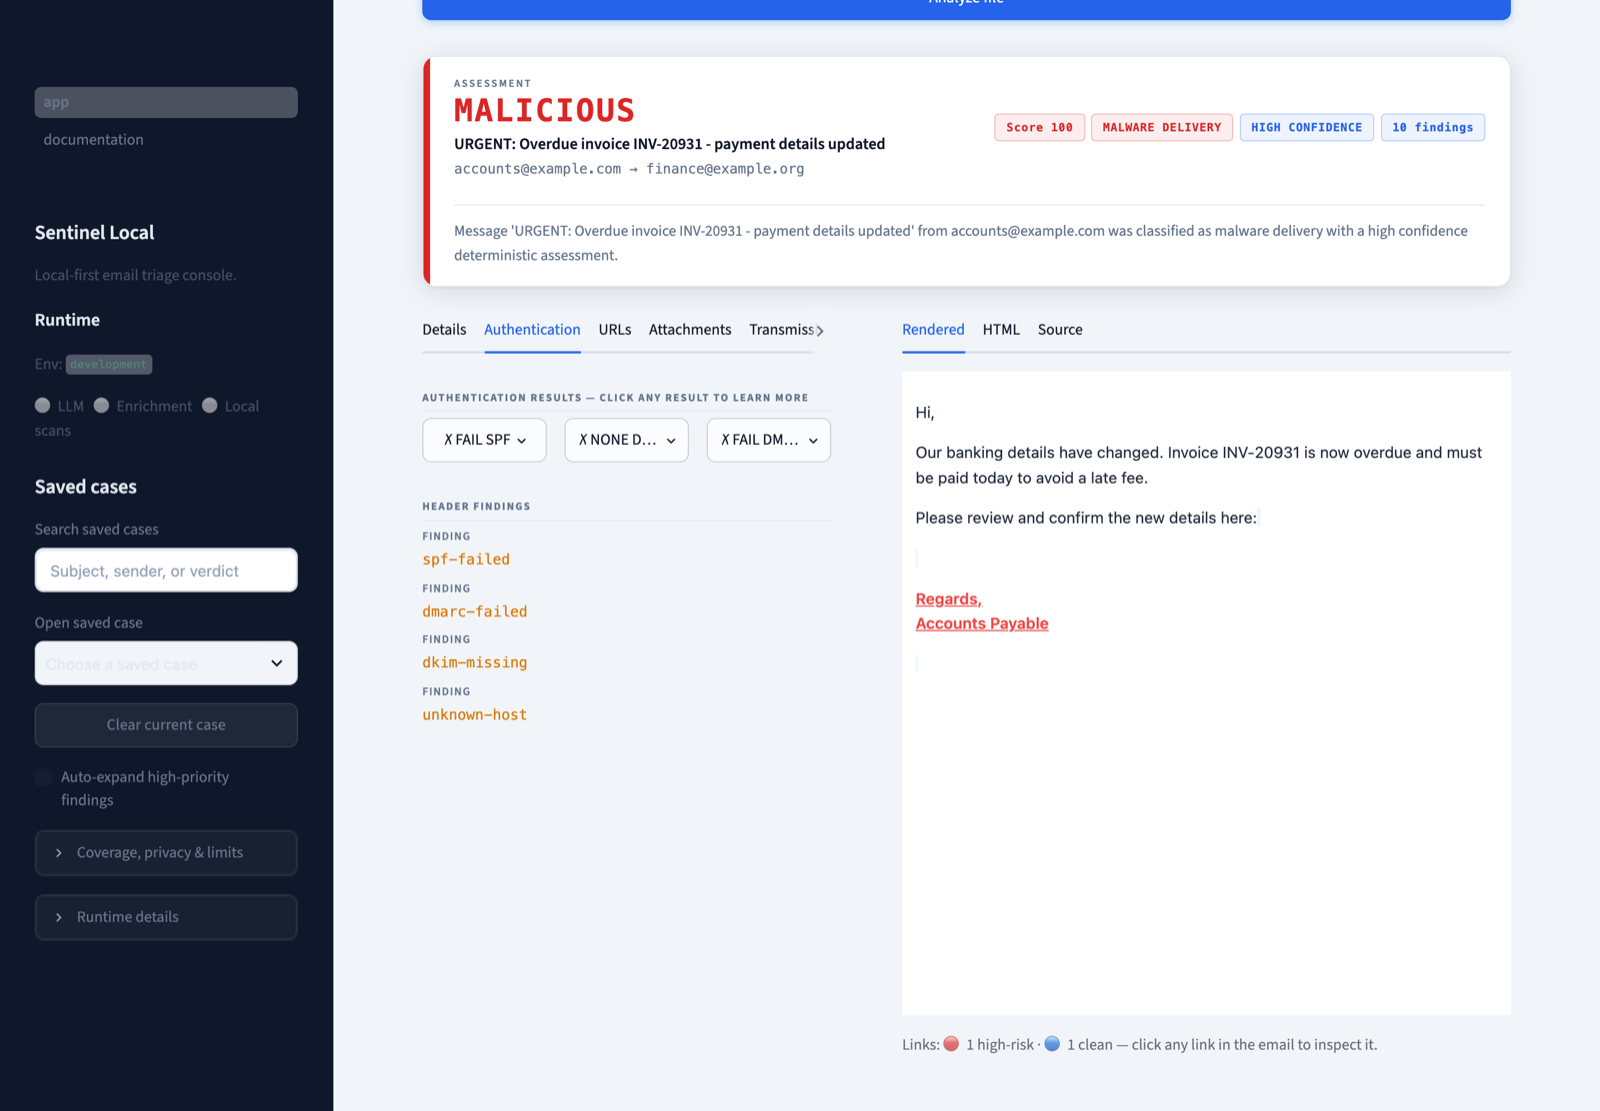
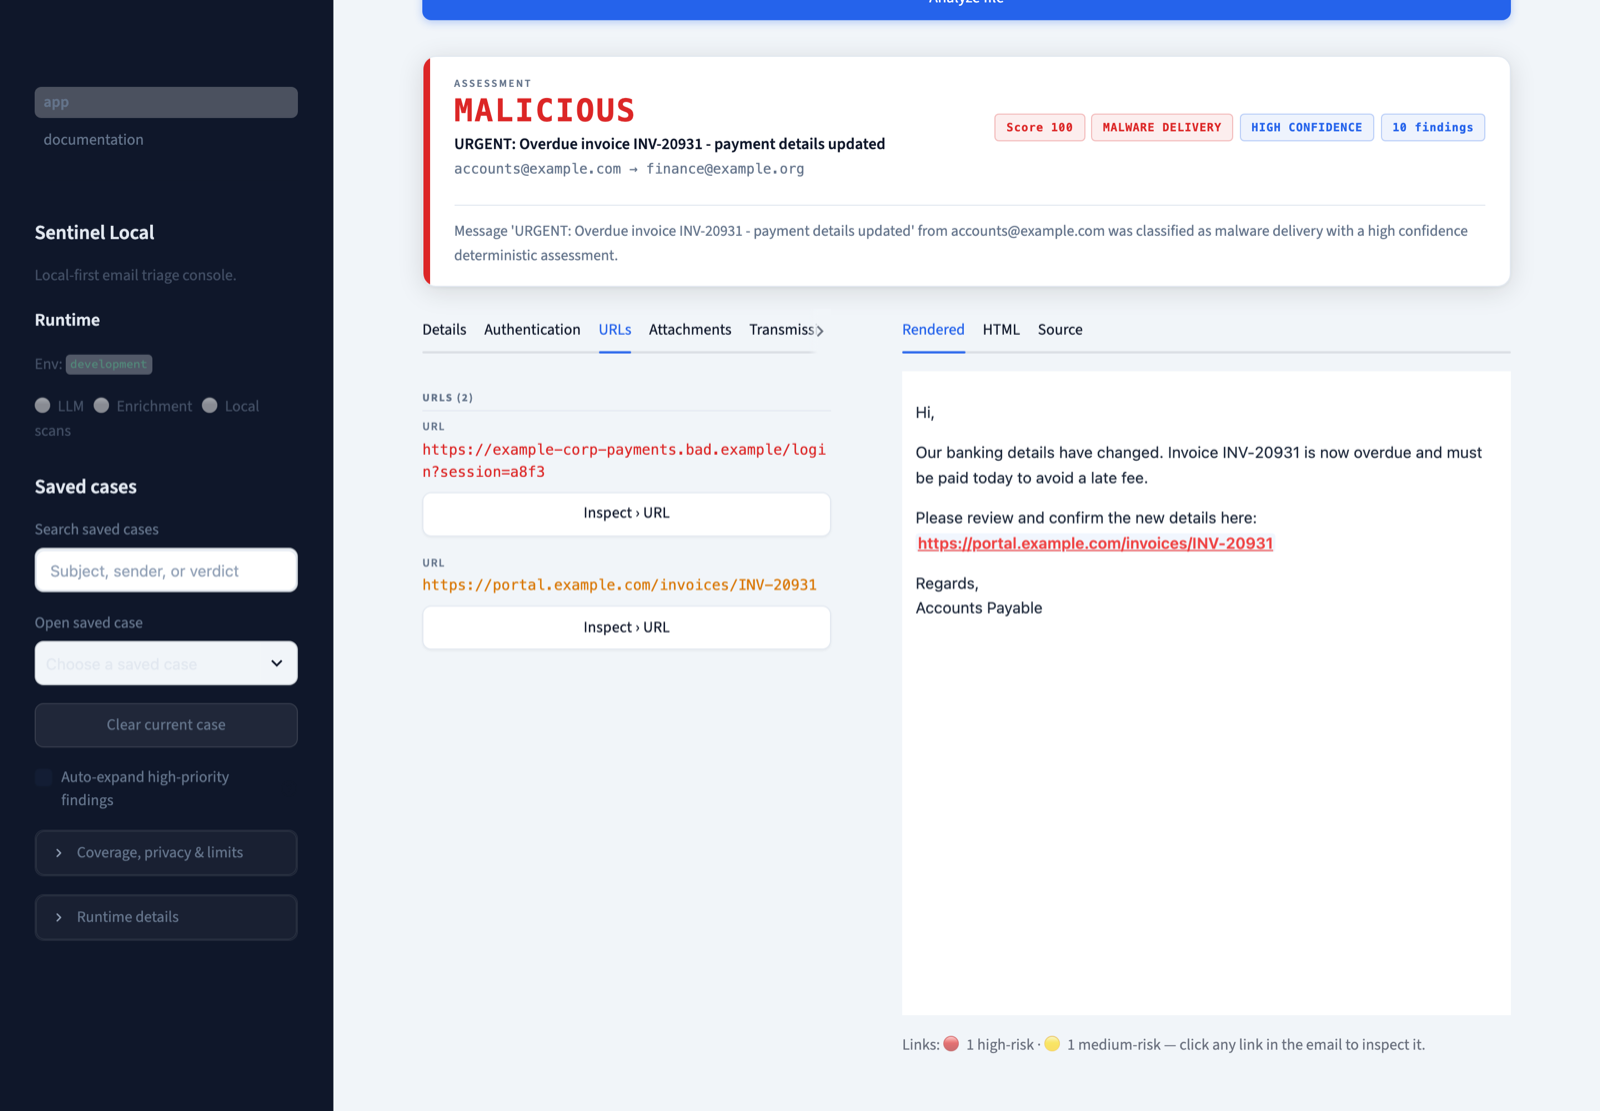
Flag decoy link text and fix links swallowing text in the rendered email
- A URL that only appears as the visible text of a link going to another
  domain now gets a 'decoy-display-text' finding (medium risk) instead of
  being shown as a clean link.
- The rendered-email link rewrite dropped the closing '>' of each <a> tag,
  so link text vanished and the following text rendered as part of the link.
- README screenshot updated to show both.

diff --git a/src/sentinel_local/ui/app.py b/src/sentinel_local/ui/app.py
@@ -58,7 +58,7 @@ def _link_risk_level(findings: list[str]) -> str:
         return "low"
     if {"display-text-mismatch", "shortened-url", "tracking-wrapper"} & set(findings):
         return "high"
-    if {"redirect-resolved", "screenshot-available"} & set(findings):
+    if {"redirect-resolved", "screenshot-available", "decoy-display-text"} & set(findings):
         return "medium"
     return "low"
 
@@ -846,7 +846,7 @@ def _sanitize_email_html(html_body: str, url_findings: dict) -> str:
             return m.group(0)
         url = href_m.group(1)
         if url.startswith(("javascript:", "data:", "#")):
-            return f"<a href='#' data-url='{escape(url)}'"
+            return f"<a href='#' data-url='{escape(url)}'>"
         info = url_findings.get(url, {})
         findings = info.get("findings", [])
         risk = (
@@ -861,7 +861,7 @@ def _sanitize_email_html(html_body: str, url_findings: dict) -> str:
             f"data-url='{escape(url)}' "
             f"style='color:{border_color};font-weight:600;text-decoration:underline;"
             f"background:rgba(59,130,246,.07);border-radius:3px;padding:0 2px;cursor:pointer' "
-            f"onclick=\"showDetail('{safe_url}');return false;\""
+            f"onclick=\"showDetail('{safe_url}');return false;\">"
         )
 
     html = re.sub(r"<a(\s[^>]*)?>", _rewrite_anchor, html, flags=re.IGNORECASE)
@@ -1336,6 +1336,17 @@ _URL_FINDING_DETAILS: dict[str, dict] = {
             "- They can be re-targeted — the same short link can point to different destinations over time\n\n"
             "**Recommended action:** enable redirect resolution and re-run to see the final destination "
             "before clicking."
+        ),
+    },
+    "decoy-display-text": {
+        "label": "🟠 Decoy link text",
+        "risk": "medium",
+        "title": "This URL Is Only Link Text, Not a Destination",
+        "body": (
+            "This URL appears in the email as the **visible text** of a link, but the link actually "
+            "goes somewhere else. It is what the reader is shown, not where they are sent, so it "
+            "should not be treated as a clean or trusted link.\n\n"
+            "Look at the matching link flagged with **Display text mismatch** for the real destination."
         ),
     },
     "display-text-mismatch": {

diff --git a/src/sentinel_local/url_analysis/service.py b/src/sentinel_local/url_analysis/service.py
@@ -31,7 +31,14 @@ def analyze_urls(
     client: httpx.Client | None = None,
 ) -> UrlAnalysisResult:
     """Analyze URLs in message content and optionally resolve redirect chains."""
-    html_anchor_map = {anchor["href"]: anchor.get("text") or None for anchor in extract_anchors(parsed_email.html_body)}
+    anchors = extract_anchors(parsed_email.html_body)
+    html_anchor_map = {anchor["href"]: anchor.get("text") or None for anchor in anchors}
+    # Visible text of links whose real destination is a different domain.
+    decoy_texts = [
+        (anchor.get("text") or "").lower()
+        for anchor in anchors
+        if _has_display_mismatch(anchor.get("text") or None, anchor["href"])
+    ]
     html_artifacts = [
         HtmlArtifact(
             artifact_type=item["artifact_type"],  # type: ignore[arg-type]
@@ -60,6 +67,8 @@ def analyze_urls(
             findings.append("shortened-url")
         if _has_display_mismatch(display_text, indicator.normalized_value):
             findings.append("display-text-mismatch")
+        if indicator.normalized_value not in html_anchor_map and _is_decoy_text(indicator.normalized_value, decoy_texts):
+            findings.append("decoy-display-text")
         if _JWT_RE.search(indicator.normalized_value):
             findings.append("jwt-in-url")
 
@@ -116,6 +125,12 @@ def _resolve_redirects_parallel(
                     artifact.findings.append("redirect-resolved")
             except Exception:
                 pass
+
+
+def _is_decoy_text(url: str, decoy_texts: list[str]) -> bool:
+    """True when a URL only appears as the visible text of a link that goes elsewhere."""
+    needle = url.lower().rstrip("/")
+    return any(needle and needle in text for text in decoy_texts)
 
 
 def _has_display_mismatch(display_text: str | None, url: str) -> bool:

diff --git a/tests/test_url_analysis.py b/tests/test_url_analysis.py
@@ -134,3 +134,39 @@ def test_url_analysis_skips_private_targets_for_redirects_and_screenshots() -> N
     assert artifact.final_url is None
     assert artifact.redirect_chain == []
     assert artifact.screenshot_url is None
+
+
+def test_url_shown_only_as_link_text_is_flagged_as_a_decoy() -> None:
+    # The visible text is a trusted-looking URL; the real href goes elsewhere.
+    parsed = ParsedEmail(
+        source_type="pasted",
+        sender=EmailAddress(email="accounts@example.com"),
+        html_body=(
+            '<p>Confirm here: <a href="https://example-corp-payments.bad.example/login?session=a8f3">'
+            "https://portal.example.com/invoices/INV-20931</a></p>"
+        ),
+    )
+    urls = ["https://example-corp-payments.bad.example/login?session=a8f3", "https://portal.example.com/invoices/INV-20931"]
+    extraction = ExtractionResult(
+        indicators=[Indicator(type="url", value=u, normalized_value=u, source="html_body") for u in urls]
+    )
+
+    result = analyze_urls(parsed_email=parsed, extraction_result=extraction)
+    findings = {a.original_url: a.findings for a in result.artifacts}
+
+    assert findings[urls[0]] == ["display-text-mismatch"]
+    assert findings[urls[1]] == ["decoy-display-text"]
+
+
+def test_matching_link_text_is_not_a_decoy() -> None:
+    url = "https://portal.example.com/invoices"
+    parsed = ParsedEmail(
+        source_type="pasted",
+        sender=EmailAddress(email="accounts@example.com"),
+        html_body=f'<a href="{url}">{url}</a>',
+    )
+    extraction = ExtractionResult(indicators=[Indicator(type="url", value=url, normalized_value=url, source="html_body")])
+
+    result = analyze_urls(parsed_email=parsed, extraction_result=extraction)
+
+    assert result.artifacts[0].findings == []

diff --git a/src/sentinel_local/ui/pages/documentation.py b/src/sentinel_local/ui/pages/documentation.py
@@ -209,6 +209,7 @@ URLs extracted from the message body are individually analyzed:
 | **Tracking wrapper unwrapping** | Strips known email-marketing redirect wrappers to reveal the true URL. |
 | **Shortener detection** | Identifies known URL shortener domains (bit.ly, tinyurl, etc.). |
 | **Anchor text mismatch** | Compares visible link text to the actual `href` destination. |
+| **Decoy link text** | Flags a URL that only appears as the visible text of a link whose real destination is a different domain, so the decoy is never shown as a clean link. |
 | **Redirect resolution** *(optional)* | Follows `Location:` headers up to 10 hops to find the final destination. |
 | **HTML artifact detection** | Scans the HTML body for hidden elements, embedded forms, inline scripts, and `javascript:` scheme links. |
 | **Screenshot URL generation** *(optional)* | Produces a screenshot URL when a provider is configured. |

diff --git a/README.md b/README.md
@@ -2,7 +2,7 @@
 
 Sentinel Local is a local-first suspicious email triage and investigation tool for macOS. It is designed for practical SOC analyst use with a cheap/free stack, local processing by default, optional privacy-conscious enrichment, and explainable outputs.
 
-![Sentinel Local triaging a synthetic invoice-fraud email: SPF, DKIM and DMARC failures and a malicious verdict](docs/screenshots/triage.png)
+![Sentinel Local triaging a synthetic invoice-fraud email: a malicious verdict, the real link flagged as a display-text mismatch and the decoy link text flagged separately](docs/screenshots/triage.png)
 
 ## Current capabilities
 
